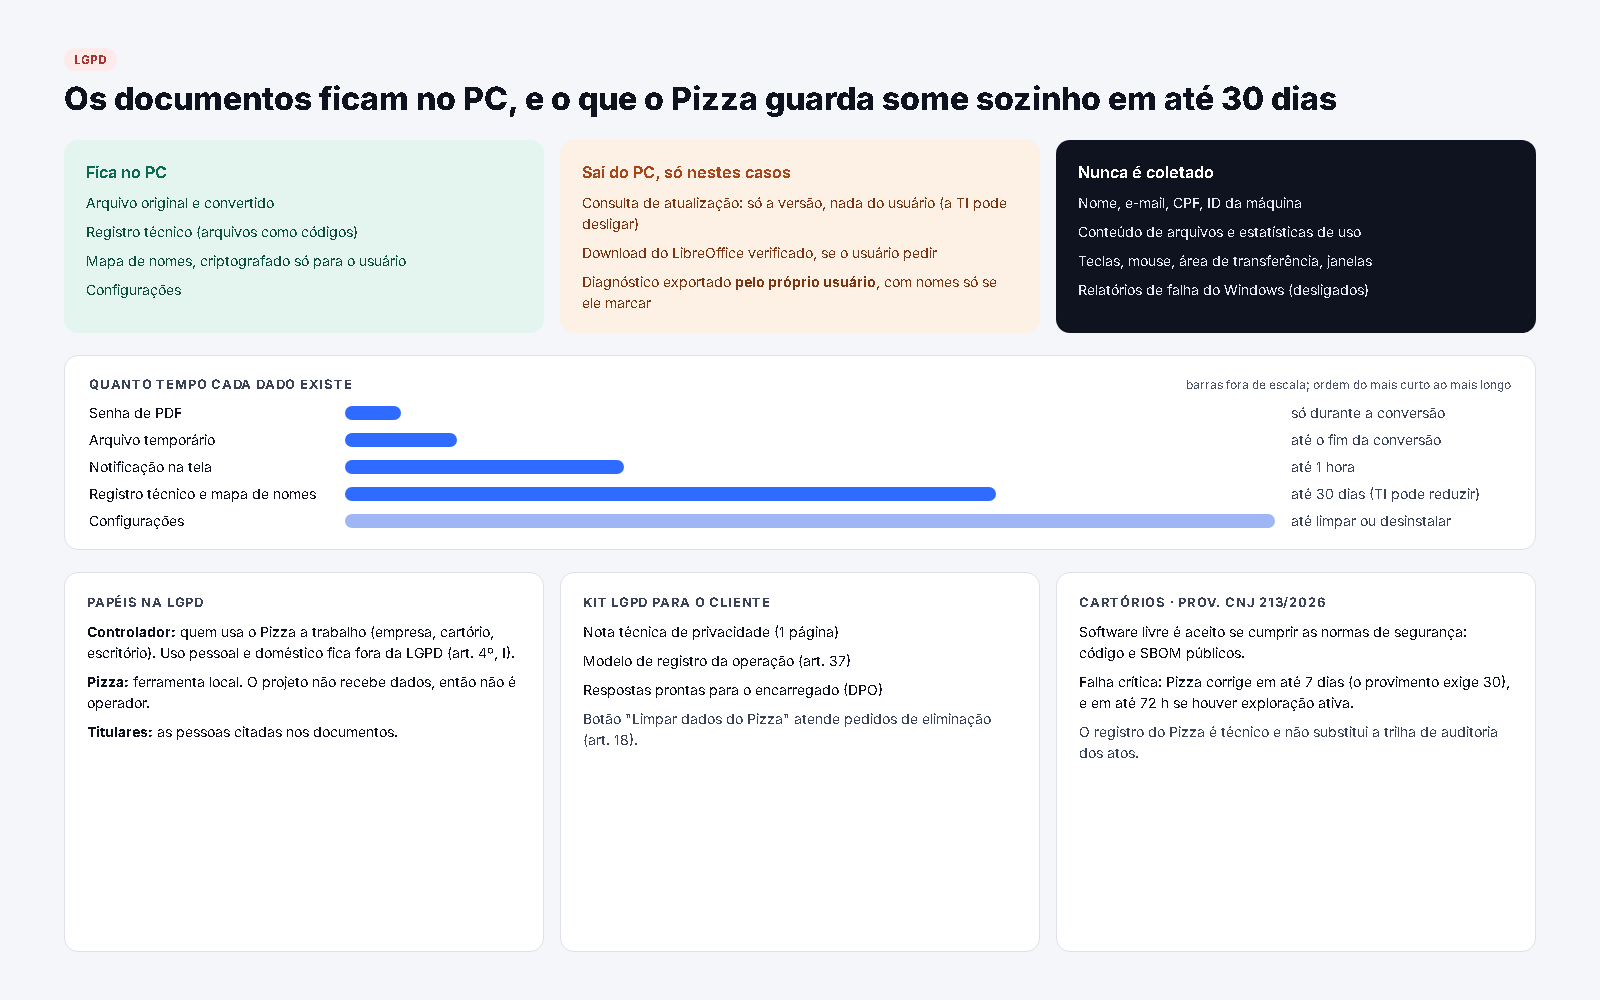
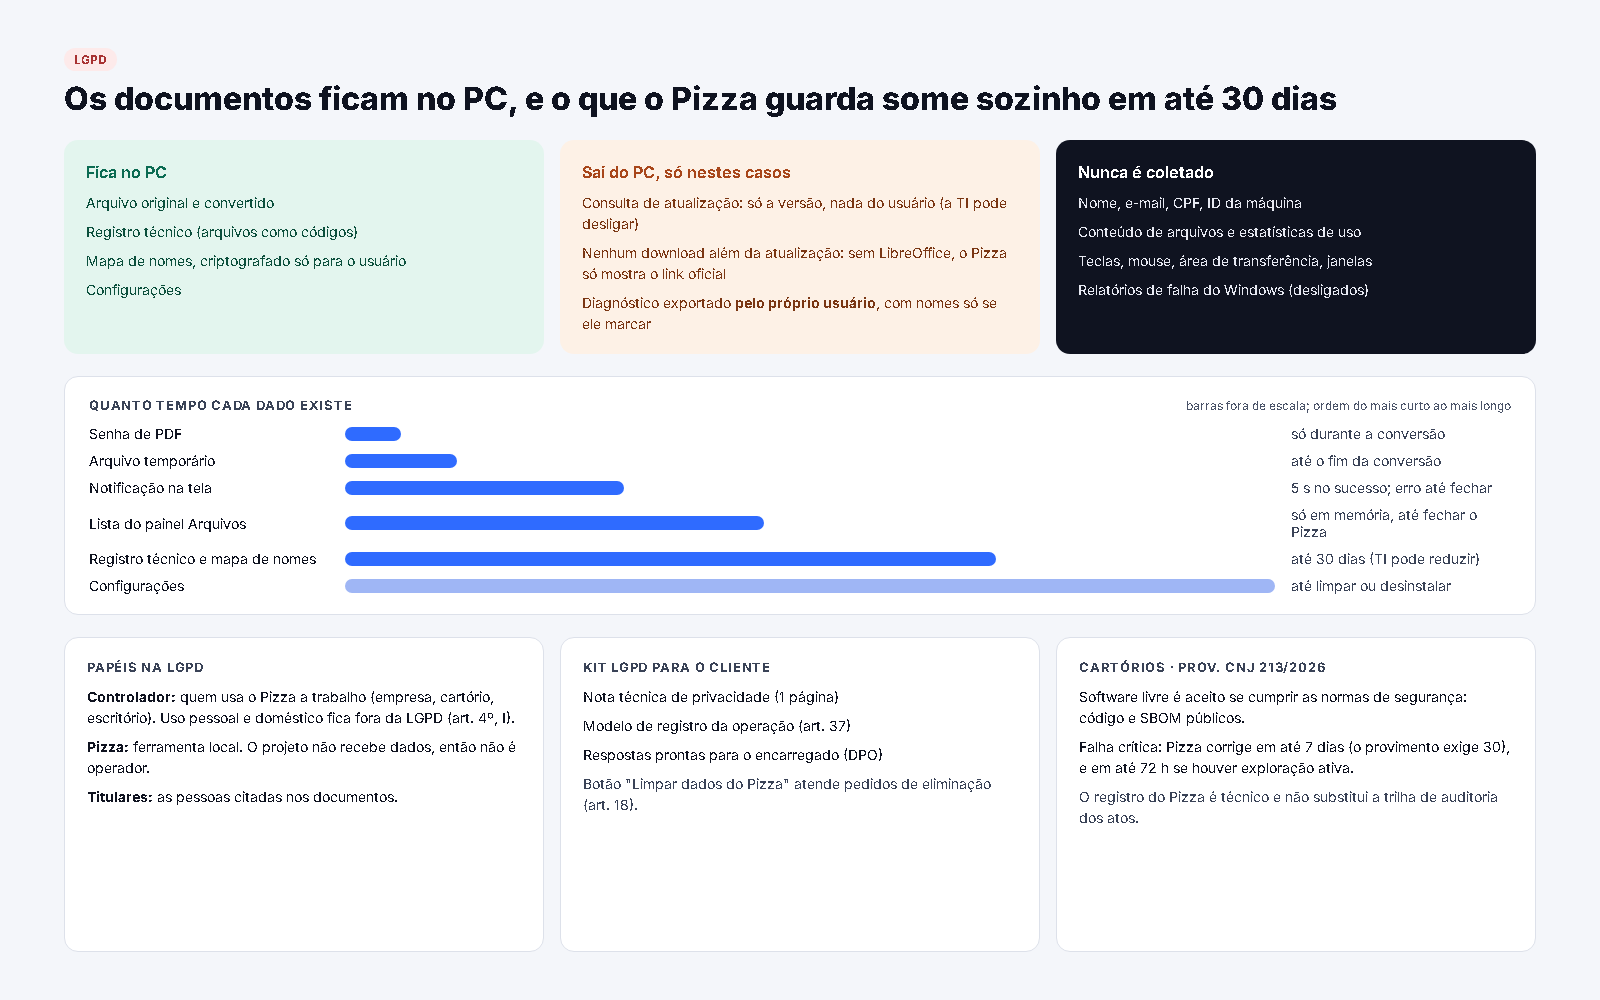
docs(dossie): pranchas alinhadas às SPECS v1.2
As pranchas do Dossiê foram revisadas no Claude Design para bater com
as emendas e os ADRs (gesto, vidro, notificações, Worker por arquivo,
pipes sem nome, Office só pelo LibreOffice, sem Word, sem "Pausar",
sem licença paga). Entram também ENG-1 a ENG-4 e WF-6.

diff --git a/docs/dossie/README.md b/docs/dossie/README.md
@@ -1,13 +1,27 @@
 # Dossiê do projeto
 
-Pranchas do planejamento do Pizza, feitas em 08/11/2026 e 09/11/2026, antes do código. Elas mostram a intenção do projeto: público, visual, arquitetura, segurança, LGPD, implantação e wireframes.
+Pranchas do planejamento do Pizza, feitas antes do código, em 08/11/2026 e 09/11/2026. Elas mostram:
 
-> **Atenção:** este é o retrato do planejamento. Algumas decisões mudaram depois, durante a implementação. Quando uma prancha e as [SPECS](../SPECS.md) discordarem, valem as SPECS (em especial a §2.1, com as emendas) e os [ADRs](../adr/). Exemplos:
+- público e posicionamento;
+- sistema visual;
+- arquitetura;
+- segurança e LGPD;
+- implantação;
+- wireframes.
+
+> **Revisão de 10/11/2026:** as pranchas foram atualizadas para bater com a SPECS v1.2. Se alguma ainda divergir, valem as [SPECS](../SPECS.md) (em especial a §2.1, com as emendas) e os [ADRs](../adr/).
 >
-> - soltar fora do disco não cancela mais: o menu fica aberto para escolher com um clique ([ADR-025](../adr/025-soltar-em-qualquer-lugar.md));
-> - a imagem vira PDF com um gerador próprio, sem dependência nova ([ADR-022](../adr/022-imagem-pdf-gerador-proprio.md));
-> - as notificações são janelas próprias do Pizza, não os avisos nativos do Windows ([ADR-018](../adr/018-notificacao-e-painel-proprios.md));
-> - o vidro é desenhado com GDI+ e um desfoque próprio ([ADR-023](../adr/023-vidro-gdiplus-desfoque-proprio.md)).
+> As principais mudanças desde o planejamento são estas:
+>
+> - **Gesto:** soltar fora de uma fatia deixa o menu aberto para escolher com um clique ([ADR-025](../adr/025-soltar-em-qualquer-lugar.md)).
+> - **Vidro:** desenhado com GDI+ e um desfoque próprio ([ADR-023](../adr/023-vidro-gdiplus-desfoque-proprio.md)).
+> - **Notificações:** são janelas do próprio Pizza ([ADR-018](../adr/018-notificacao-e-painel-proprios.md)).
+> - **Simplificações do v1** ([ADR-019](../adr/019-simplificacoes-do-v1.md)):
+>   - um Worker por arquivo;
+>   - documentos do Office só pelo LibreOffice isolado;
+>   - nenhum download além da atualização.
+> - **Canal com o Worker:** pipes sem nome ([ADR-021](../adr/021-pipe-sem-nome.md)).
+> - **Imagem para PDF:** um gerador próprio, sem dependência nova ([ADR-022](../adr/022-imagem-pdf-gerador-proprio.md)).
 
 ## Visão geral
 
@@ -57,6 +71,22 @@ Pranchas do planejamento do Pizza, feitas em 08/11/2026 e 09/11/2026, antes do c
 
 ![Roteiro](eng-0-roteiro.png)
 
+### ENG-1 · Arquitetura em dois processos
+
+![Arquitetura](eng-1-arquitetura.png)
+
+### ENG-2 · Máquina de estados
+
+![Estados](eng-2-estados.png)
+
+### ENG-3 · Módulos e contratos
+
+![Módulos](eng-3-modulos.png)
+
+### ENG-4 · Sequência de uma conversão
+
+![Sequência](eng-4-sequencia.png)
+
 ## Wireframes
 
 ### WF-1 · Anatomia do menu radial
@@ -78,3 +108,7 @@ Pranchas do planejamento do Pizza, feitas em 08/11/2026 e 09/11/2026, antes do c
 ### WF-5 · Ícone da bandeja
 
 ![Bandeja](wf-5-bandeja.png)
+
+### WF-6 · Configuração (v1.0)
+
+![Configuração](wf-6-configuracoes.png)
